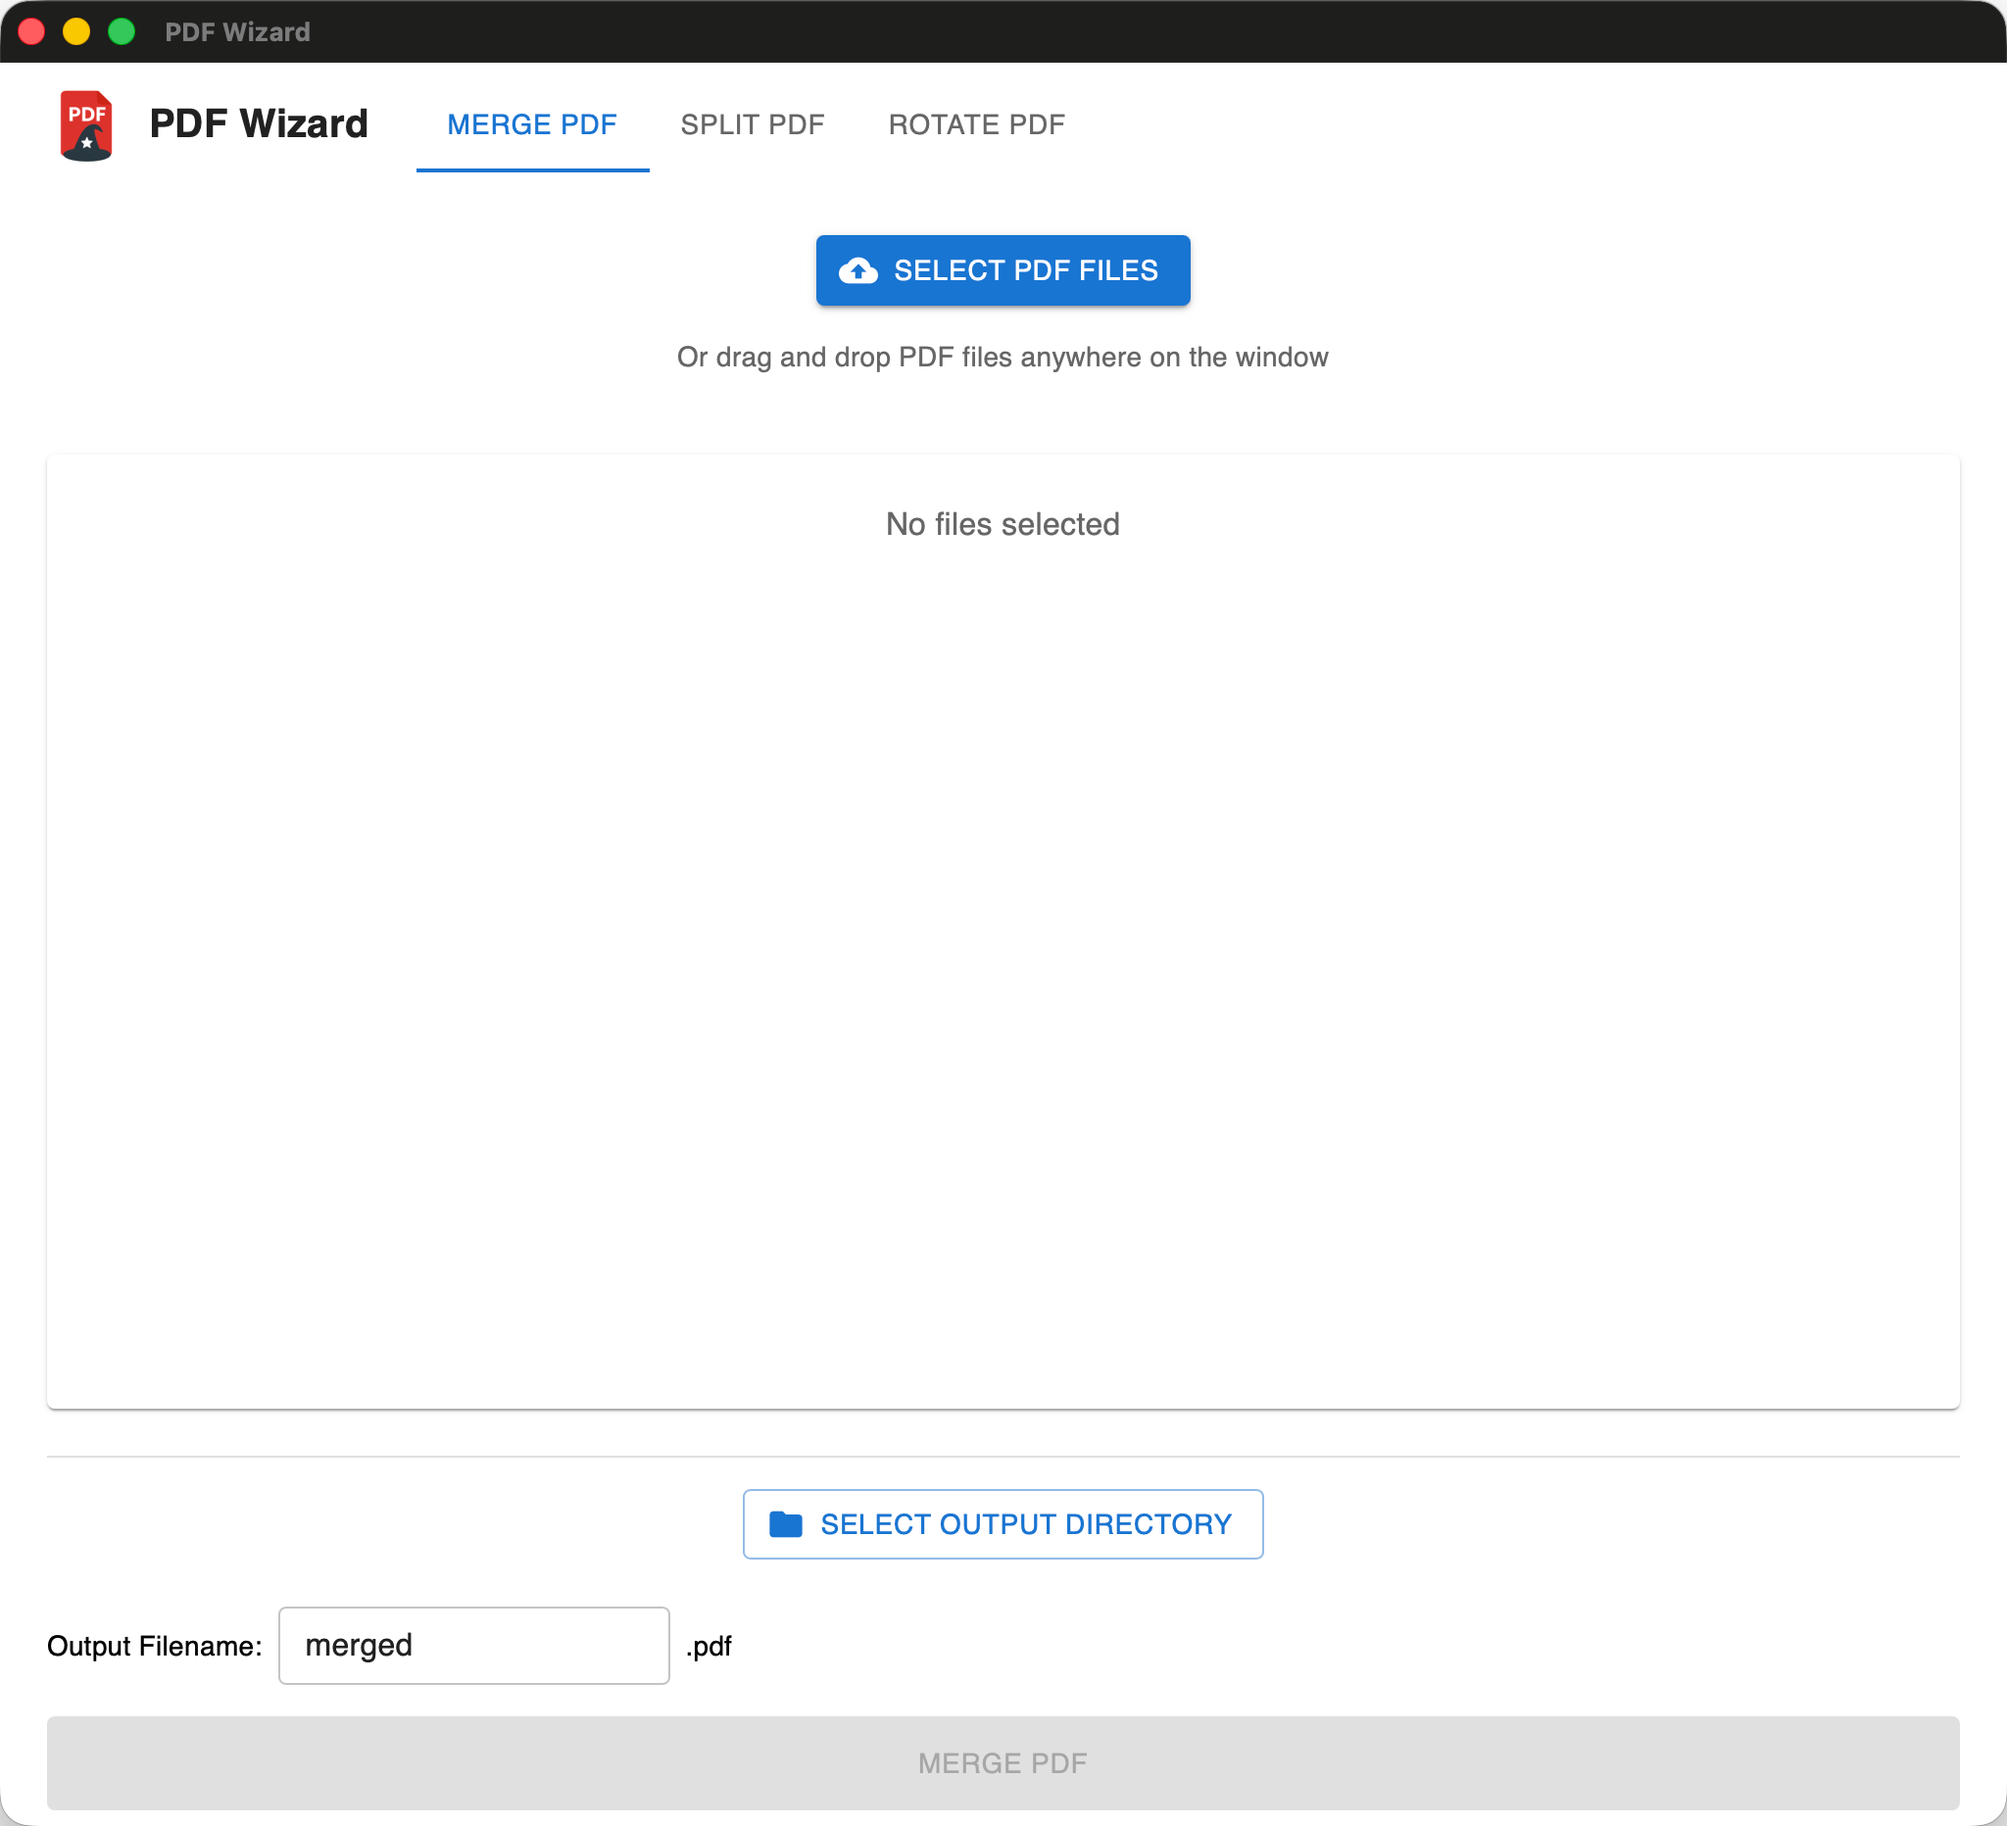
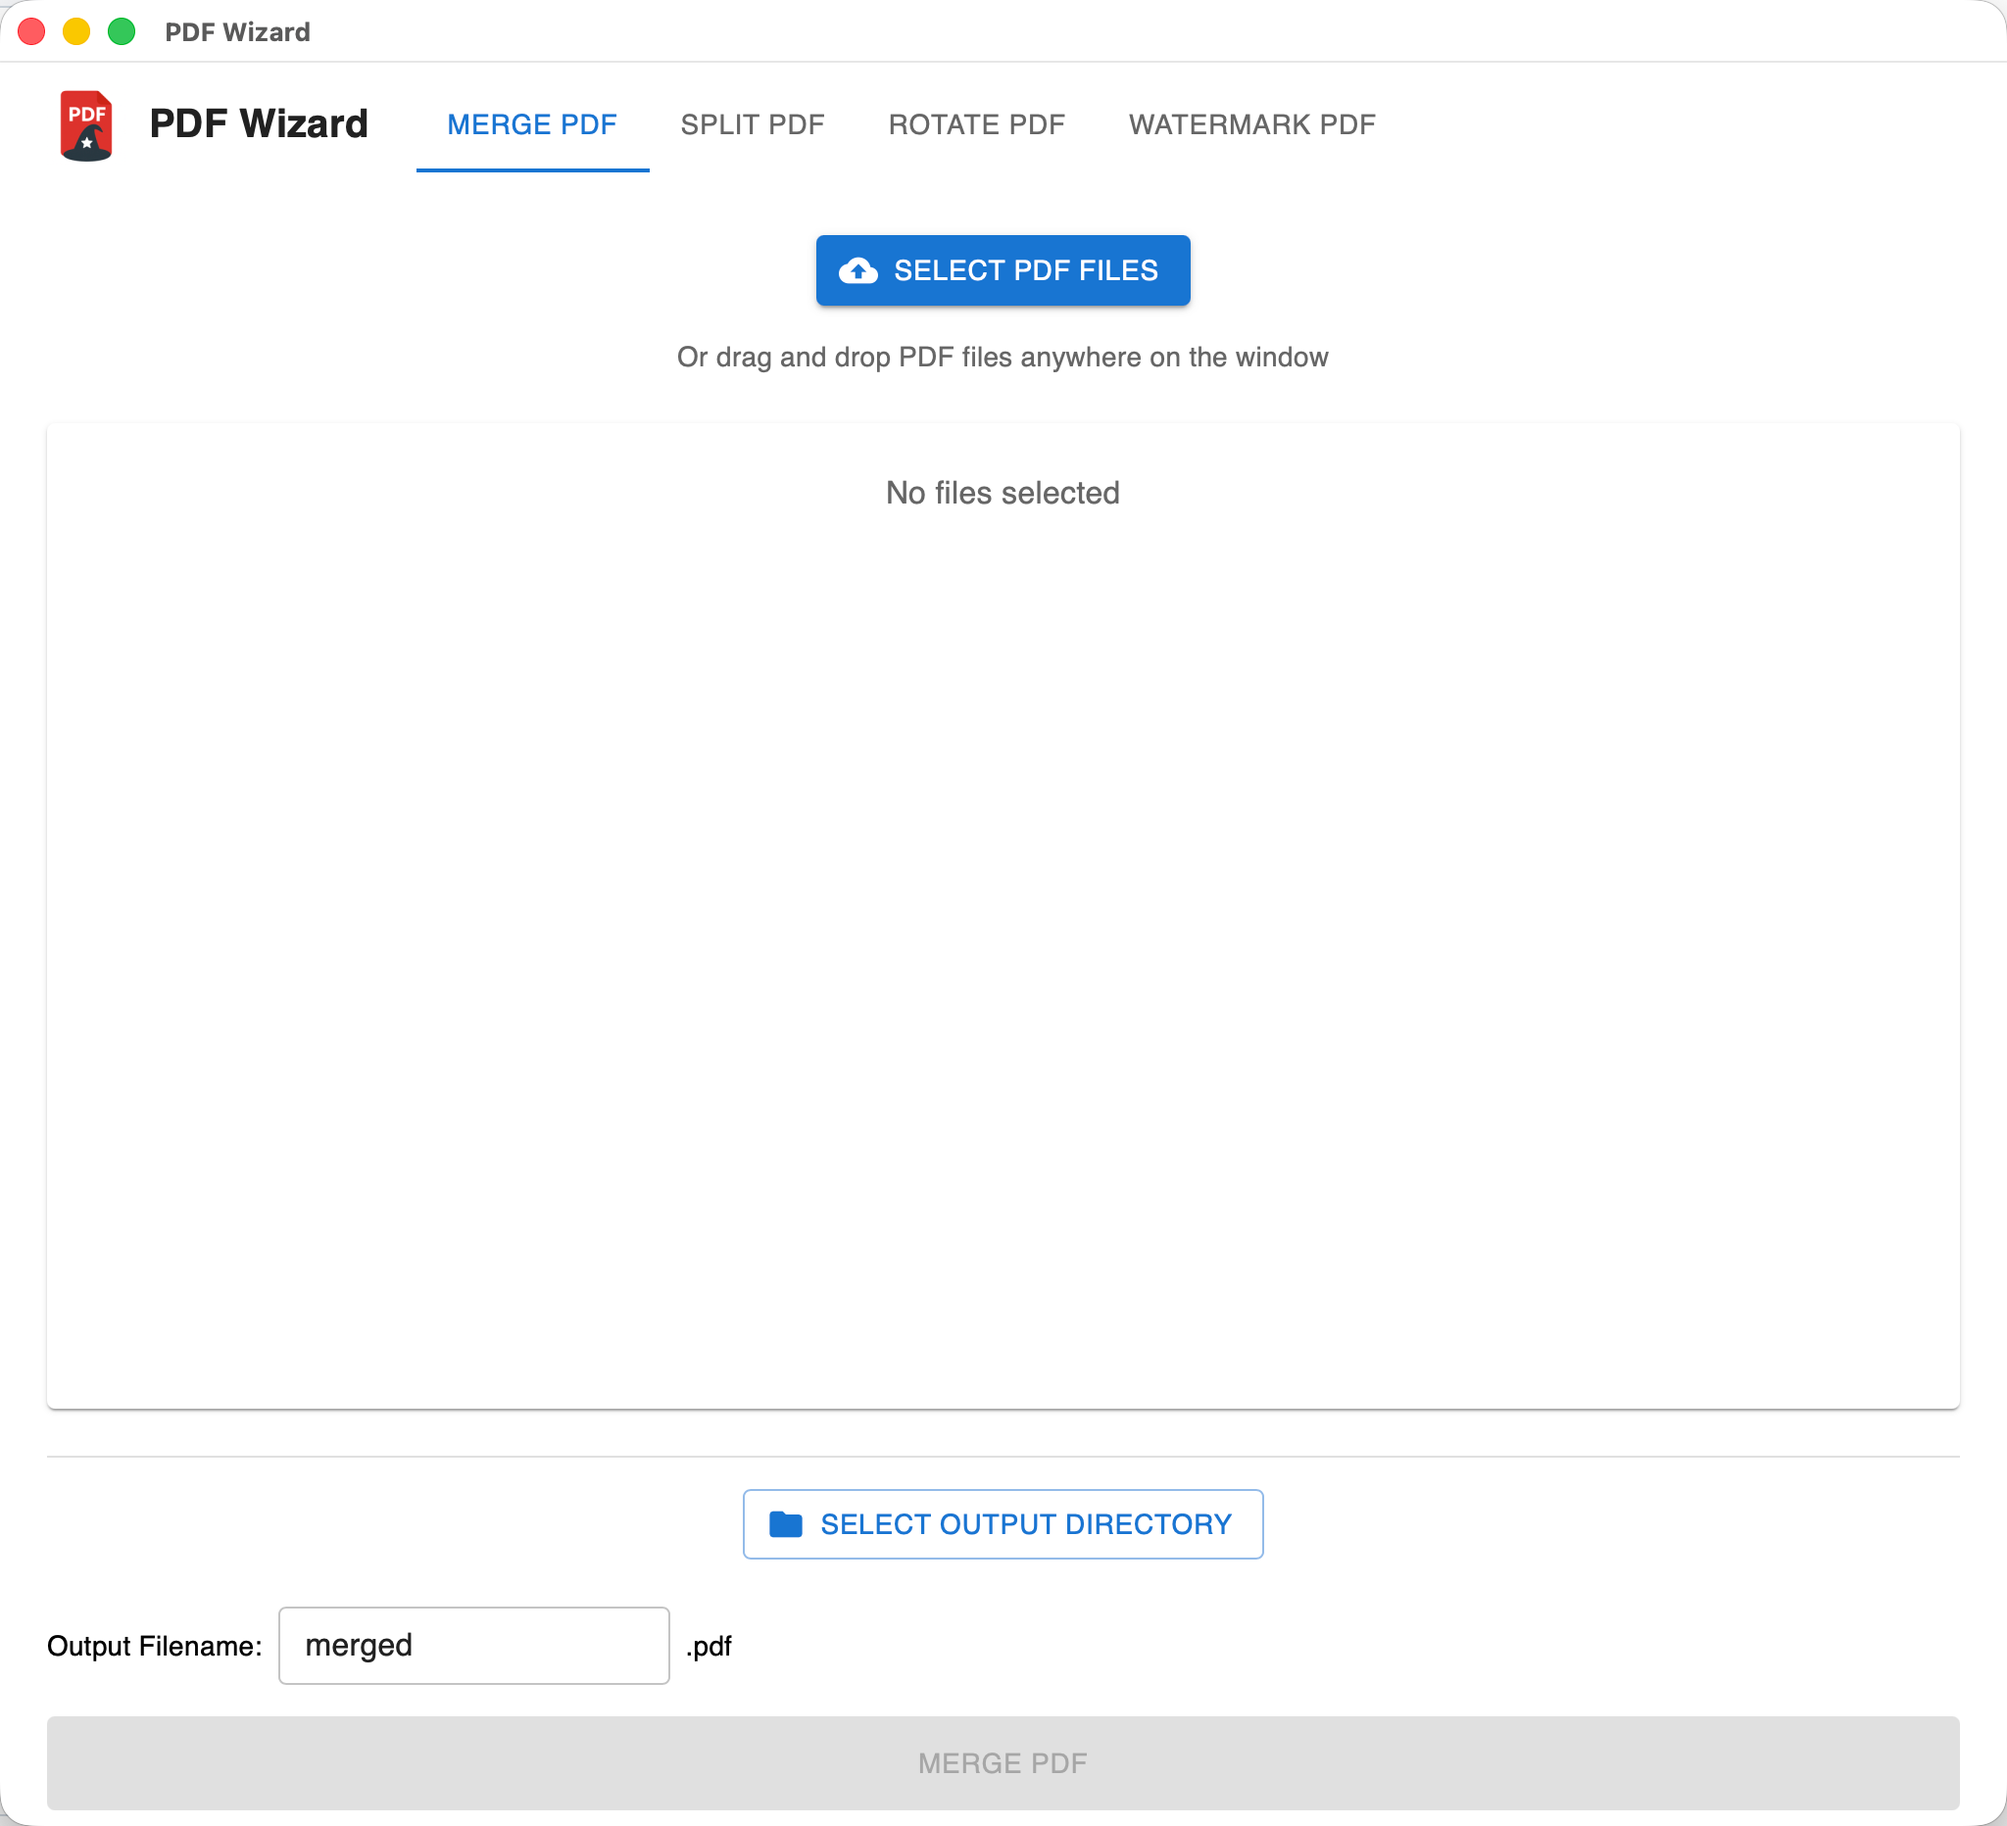
doc: updated readme

Changed region(s): [[0.0, 0.0, 1.0, 0.0933], [0.4375, 0.2489, 0.5625, 0.3112]]

diff --git a/README.md b/README.md
@@ -20,22 +20,28 @@ A modern PDF toolkit built with [Wails v2](https://wails.io), combining Go backe
 
 ## Screenshots
 
-### Merge PDFs Tab
+### Merge PDF Tab
 
 <p align="center">
-  <img src="./assets/img/app_view_1.png" alt="Merge PDFs Tab" width="800" />
+  <img src="./assets/img/app_view_1.png" alt="Merge PDF Tab" width="800" />
 </p>
 
-### Split PDFs Tab
+### Split PDF Tab
 
 <p align="center">
-  <img src="./assets/img/app_view_2.png" alt="Split PDFs Tab" width="800" />
+  <img src="./assets/img/app_view_2.png" alt="Split PDF Tab" width="800" />
 </p>
 
-### Rotate PDFs Tab
+### Rotate PDF Tab
 
 <p align="center">
-  <img src="./assets/img/app_view_3.png" alt="Rotate PDFs Tab" width="800" />
+  <img src="./assets/img/app_view_3.png" alt="Rotate PDF Tab" width="800" />
+</p>
+
+### Watermark PDF Tab
+
+<p align="center">
+  <img src="./assets/img/app_view_4.png" alt="Watermark PDF Tab" width="800" />
 </p>
 
 ## Downloads
